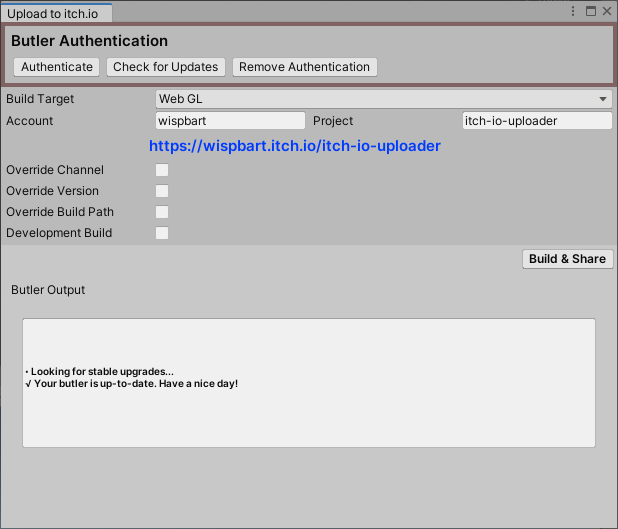
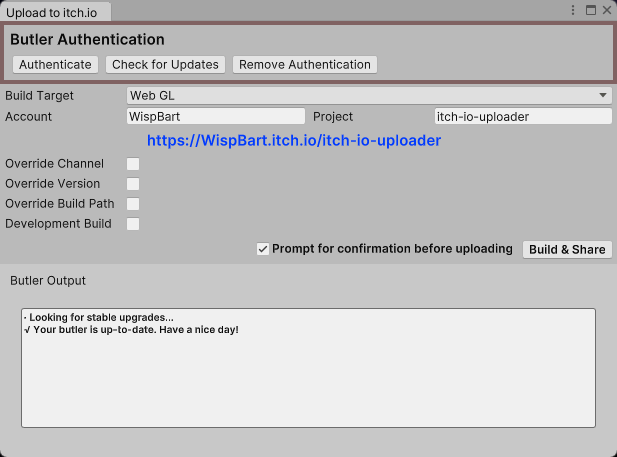
v.1.0.1

diff --git a/CHANGELOG.md b/CHANGELOG.md
@@ -1,4 +1,7 @@
 # ChangeLog
+## [1.0.1]
+* Added an option to request confirmation before uploading, so you can check your build locally first.
+* 'Windows' buildtarget now builds to StandaloneWindows64 instead of StandaloneWindows.
 
 ## [1.0.0]
 * Added support for building from MacOS.
